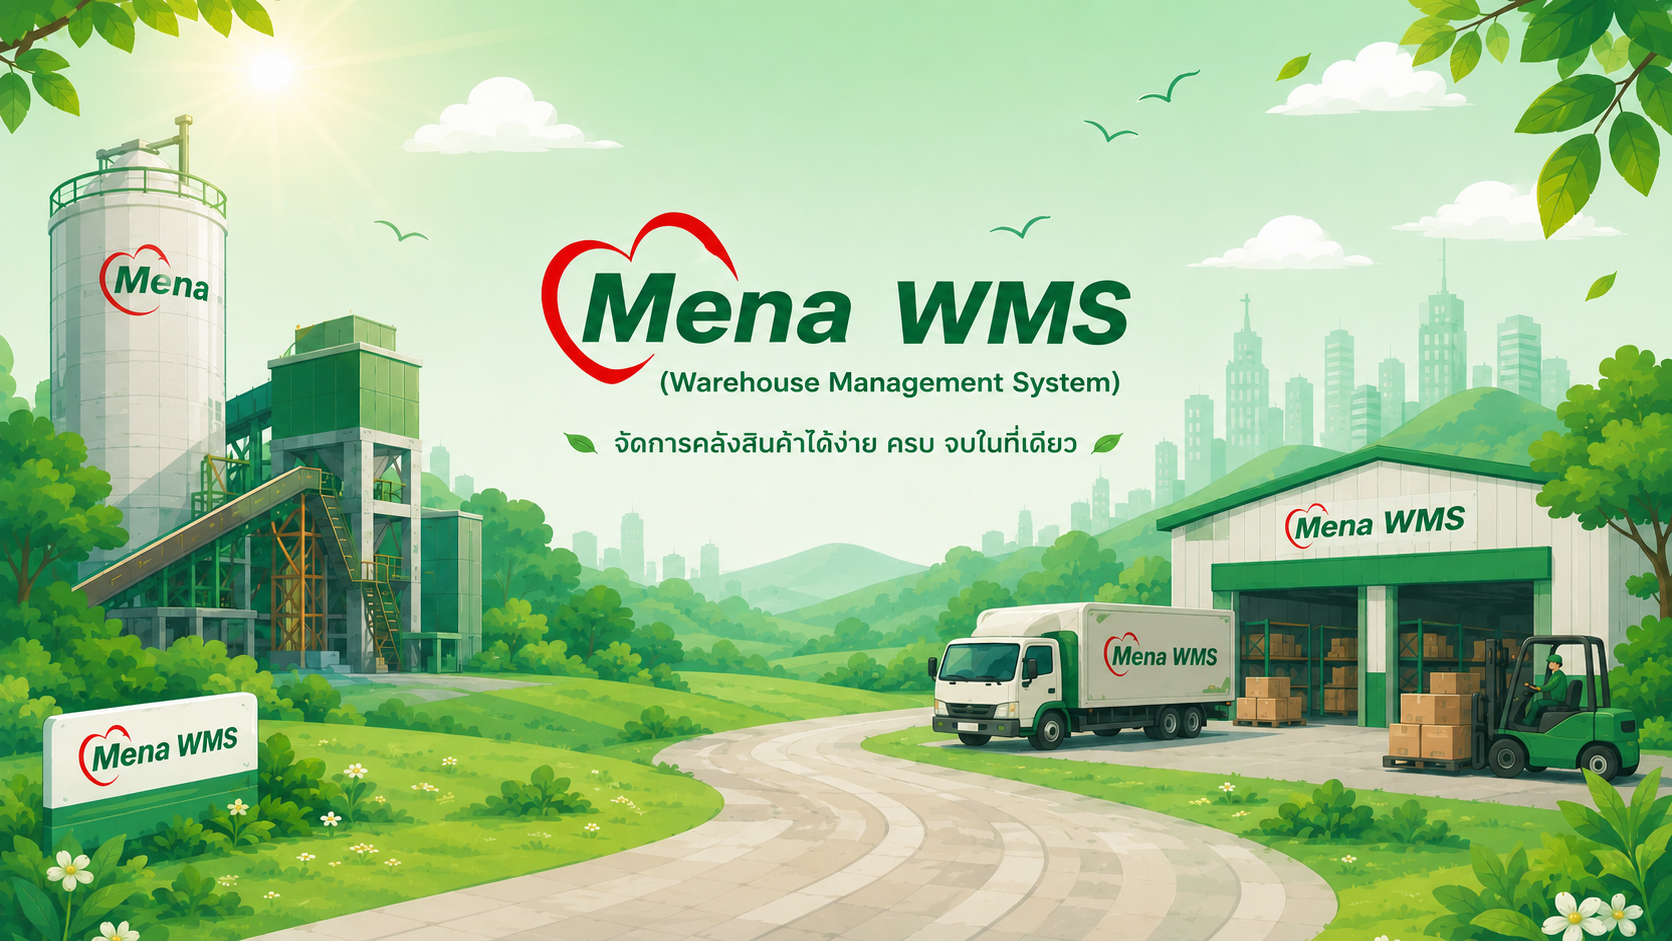
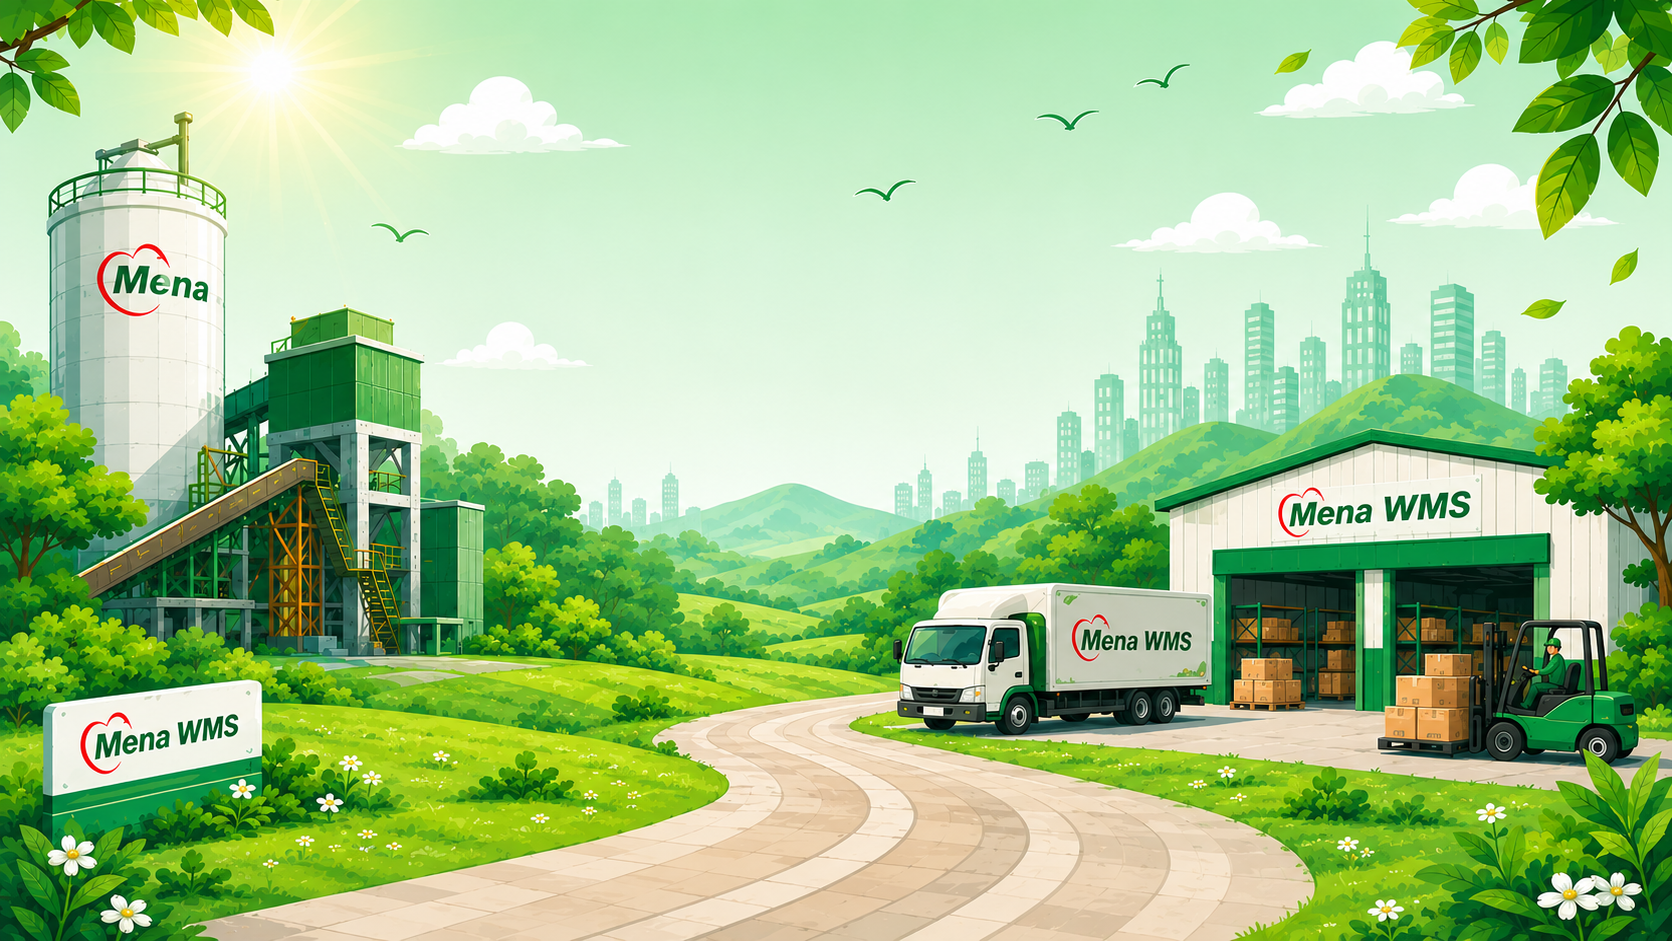
update:style-login

diff --git a/app/login/page.tsx b/app/login/page.tsx
@@ -25,24 +25,38 @@ function LoginContent() {
   if (status === "loading") {
     return (
       <div className="fixed inset-0 flex items-center justify-center" style={bgStyle}>
-        <div className="absolute inset-0 bg-black/30" />
-        <div className="relative z-10 text-sm text-white/60">กำลังโหลด...</div>
+        <div className="absolute inset-0 bg-black/10" />
+        <div className="relative z-10 text-[10px] tracking-[0.3em] text-white/35 uppercase">Loading</div>
       </div>
     )
   }
 
   return (
     <div className="fixed inset-0 flex items-center justify-center" style={bgStyle}>
-      <div className="absolute inset-0 bg-black/30" />
-      <div className="relative top-40 z-10 w-full max-w-md px-4">
-        {/* Card */}
-        <div className="rounded-2xl border border-white/20 bg-white/10 backdrop-blur-md px-8 py-8 shadow-xl">
-          <p className="mb-6 text-center text-sm text-white/80">
-            เข้าสู่ระบบด้วยบัญชี Google ของบริษัท
-          </p>
+      <div className="absolute inset-0 bg-black/10" />
 
+      <div className="relative z-10 w-full max-w-xs px-6">
+       
+
+        {/* Card */}
+        <div className="rounded-2xl border border-white/10 bg-white/8 backdrop-blur-md px-6 py-7">
+           {/* Brand */}
+        <div className="mb-4 text-center">
+          <h1 className="text-2xl font-extrabold tracking-[0.2em] bg-clip-text text-transparent bg-linear-to-r from-emerald-700 via-emerald-500 to-emerald-400 uppercase mb-1">
+            Mena WMS
+          </h1>
+          <div className="flex items-center justify-center gap-2 my-2.5">
+            <div className="h-px w-8 bg-emerald-400/35" />
+            <div className="h-1 w-1 rounded-full bg-emerald-400/70" />
+            <div className="h-px w-8 bg-emerald-400/35" />
+          </div>
+          <p className="text-md font-medium text-black/60 ">
+            Warehouse Management System
+          </p>
+        </div>
+          
           {error && (
-            <div className="mb-4 rounded-lg bg-red-50 dark:bg-red-950/30 border border-red-200 dark:border-red-800/50 px-4 py-3 text-sm text-red-600 dark:text-red-400 text-center">
+            <div className="mb-5 rounded-lg border border-red-400/20 bg-red-500/10 px-4 py-3 text-[11px] text-red-300 text-center leading-relaxed">
               {error === "AccessDenied"
                 ? "บัญชีนี้ไม่ได้รับอนุญาต — ใช้อีเมล @menatransport.co.th เท่านั้น"
                 : "เกิดข้อผิดพลาด กรุณาลองใหม่อีกครั้ง"}
@@ -51,20 +65,19 @@ function LoginContent() {
 
           <button
             onClick={() => signIn("google", { callbackUrl: "/" })}
-            className="flex w-full cursor-pointer items-center justify-center gap-3 rounded-xl border border-white/20 bg-white/90 px-4 py-3 text-sm font-medium text-gray-700 hover:bg-white transition-colors shadow-sm"
+            className="flex w-full cursor-pointer items-center justify-center gap-2.5 rounded-xl bg-white px-4 py-2.5 text-[13px] font-medium text-gray-700 hover:bg-white/90 transition-colors"
           >
-            {/* Google icon */}
-            <svg width="18" height="18" viewBox="0 0 18 18" fill="none">
-              <path d="M17.64 9.2c0-.637-.057-1.251-.164-1.84H9v3.481h4.844c-.209 1.125-.843 2.078-1.796 2.716v2.259h2.908c1.702-1.567 2.684-3.875 2.684-6.615Z" fill="#4285F4"/>
-              <path d="M9 18c2.43 0 4.467-.806 5.956-2.184l-2.908-2.259c-.806.54-1.837.86-3.048.86-2.344 0-4.328-1.584-5.036-3.711H.957v2.332A8.997 8.997 0 0 0 9 18Z" fill="#34A853"/>
-              <path d="M3.964 10.706A5.41 5.41 0 0 1 3.682 9c0-.593.102-1.17.282-1.706V4.962H.957A8.996 8.996 0 0 0 0 9c0 1.452.348 2.827.957 4.038l3.007-2.332Z" fill="#FBBC05"/>
-              <path d="M9 3.58c1.321 0 2.508.454 3.44 1.345l2.582-2.58C13.463.891 11.426 0 9 0A8.997 8.997 0 0 0 .957 4.962L3.964 7.294C4.672 5.163 6.656 3.58 9 3.58Z" fill="#EA4335"/>
+            <svg width="15" height="15" viewBox="0 0 18 18" fill="none">
+              <path d="M17.64 9.2c0-.637-.057-1.251-.164-1.84H9v3.481h4.844c-.209 1.125-.843 2.078-1.796 2.716v2.259h2.908c1.702-1.567 2.684-3.875 2.684-6.615Z" fill="#4285F4" />
+              <path d="M9 18c2.43 0 4.467-.806 5.956-2.184l-2.908-2.259c-.806.54-1.837.86-3.048.86-2.344 0-4.328-1.584-5.036-3.711H.957v2.332A8.997 8.997 0 0 0 9 18Z" fill="#34A853" />
+              <path d="M3.964 10.706A5.41 5.41 0 0 1 3.682 9c0-.593.102-1.17.282-1.706V4.962H.957A8.996 8.996 0 0 0 0 9c0 1.452.348 2.827.957 4.038l3.007-2.332Z" fill="#FBBC05" />
+              <path d="M9 3.58c1.321 0 2.508.454 3.44 1.345l2.582-2.58C13.463.891 11.426 0 9 0A8.997 8.997 0 0 0 .957 4.962L3.964 7.294C4.672 5.163 6.656 3.58 9 3.58Z" fill="#EA4335" />
             </svg>
             Sign in with Google
           </button>
 
-          <p className="mt-5 text-center text-[11px] text-white/50">
-            รองรับเฉพาะบัญชี @menatransport.co.th
+          <p className="mt-4 text-center text-[11px] tracking-wide text-white">
+            @menatransport.co.th <span className="font-medium text-[12px] text-red-700 ml-1">only</span>
           </p>
         </div>
       </div>